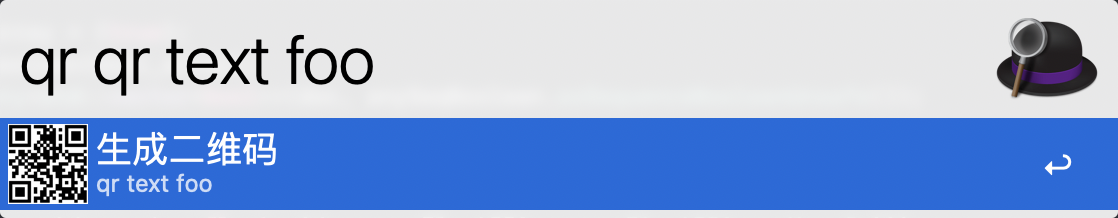
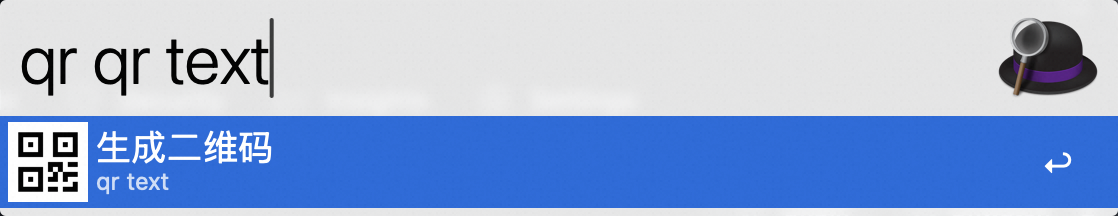
feat: 使用 Alfred 5.5 提供的 Image View 优化二维码显示效果。

diff --git a/Workflow/generate.js b/Workflow/generate.js
@@ -13,15 +13,21 @@ let require;
   require = eval(content)(app);
 }
 
-const { normalize } = require('./lib/path');
+const { normalize, join } = require('./lib/path');
 const { generateQRCode } = require('./lib/qr');
 
 function run(argv) {
   // QR 码的生成路径，在 Workflow Configuration 中配置
-  const filePath = normalize(argv[0]);
+  ObjC.import('stdlib');
+  let filePath;
+  if ($.getenv('directory') && $.getenv('filename')) {
+    // 优先使用 configuration 中的配置
+    filePath = join(normalize($.getenv('directory')) + '/' + $.getenv('filename'));
+  } else {
+    filePath = normalize($.getenv('qrPath'));
+  }
   // QR 码的文本内容，移除前后的空白
-  const text = argv[1].trimStart().trimEnd();
+  const text = argv[0].trimStart().trimEnd();
   generateQRCode(filePath, text, text);
-  // 使用 finder 打开可能会报无权限的错误，改为使用 open 命令。
-  app.doShellScript(`open "${filePath}"`);
+  return filePath;
 }

diff --git a/Workflow/lib/path.js b/Workflow/lib/path.js
@@ -7,10 +7,18 @@ app.includeStandardAdditions = true;
  */
 function normalize(path) {
   // 替换环境变量
-  console.log('path', path)
   path = path.replace(/\$([\w_][\w\d_]*)/, (_, name) => app.systemAttribute(name) || '');
   // 标准化字符串
   return $(path).stringByStandardizingPath.js;
 }
 
-module.exports = { normalize };
+/**
+ * 将指定路径连接起来。
+ * @param  {...string} paths 要连接的路径。
+ * @returns 链接后的路径。
+ */
+function join(...paths) {
+  return $(paths.join('/')).stringByStandardizingPath.js;
+}
+
+module.exports = { normalize, join };

diff --git a/Workflow/lib/qr.js b/Workflow/lib/qr.js
@@ -54,7 +54,7 @@ function generateQRCode(path, text, label) {
   const cgImage = $.CGBitmapContextCreateImage(bitmapContext);
   $.CGContextRelease(bitmapContext);
 
-  const image = $.NSImage.alloc.initWithCGImageSize(cgImage, $.NSMakeSize(284, 100));
+  const image = $.NSImage.alloc.initWithCGImageSize(cgImage, $.NSMakeSize(imageWidth, imageHeight));
   const bitmapRep = $.NSBitmapImageRep.imageRepWithData(image.TIFFRepresentation);
   const pngData = bitmapRep.representationUsingTypeProperties($.NSPNGFileType, $());
 

diff --git a/README.md b/README.md
@@ -4,12 +4,17 @@
 
 **需要 macOS 10.15+。**
 
-[⤓ 下载 Workflow](https://github.com/CYJB/Alfred-Workflow-QR/releases/latest/download/qr.alfredworkflow)
+- [⤓ 下载 Workflow (Alfred 5.5+)](https://github.com/CYJB/Alfred-Workflow-QR/releases/latest/download/qr.alfredworkflow)
+- [⤓ 下载 Workflow (Alfred 旧版本)](https://github.com/CYJB/Alfred-Workflow-QR/releases/download/v1.0.1/qr.alfredworkflow)
 
 ## 使用方法
 
-使用 `qr` 关键字生成指定文本的二维码，并使用默认方式打开。
+使用 `qr` 关键字生成指定文本的二维码，会直接使用 Image View（需要 Alfred 5.5 或更高）显示二维码，使用 `Esc` 隐藏，也可以使用回车或 `⌘` `o` 在默认应用中打开图片。
 
 ![Alfred workflow qr](images/qr.png)
+
+生成的二维码路径和文件名可以在 Alfred 配置中修改，默认会生成在临时目录。
+
+![Alfred workflow 配置](images/configuration.png)
 
 使用 `qrs` 关键字截屏二维码部分，识别结果会复制到剪贴板，并给出提示。
